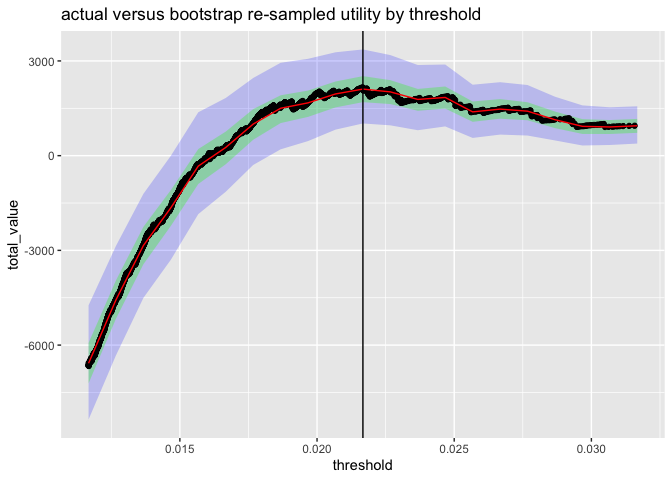
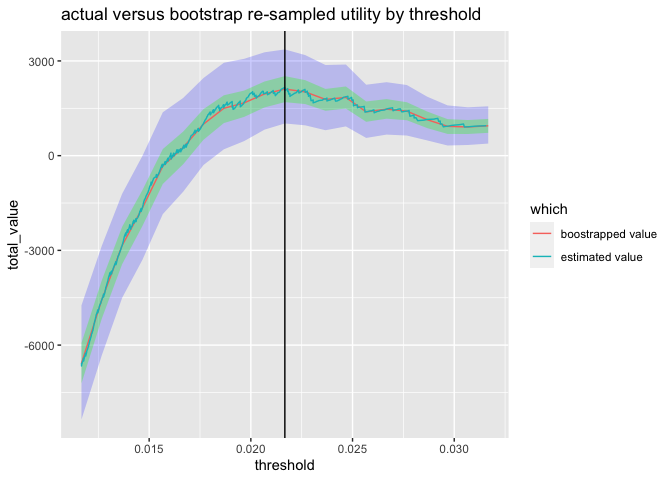
change to lines

diff --git a/extras/utility_modeling/Utility_Sampling_Distribution.md b/extras/utility_modeling/Utility_Sampling_Distribution.md
@@ -128,6 +128,17 @@ value_range <- values[
   (values$threshold >= min(threshold_list)) &
      (values$threshold <= max(threshold_list)), ]
 
+boot_thin <- boot_summary %.>%
+  select_columns(., qc(threshold, mean_total_value)) %.>%
+  rename_columns(., 'total_value' := 'mean_total_value') %.>%
+  extend(., which = 'boostrapped value')
+
+value_thin <- value_range %.>%
+  select_columns(., qc(threshold, total_value)) %.>%
+  extend(., which = 'estimated value')
+
+plot_thin <- rbind(boot_thin, value_thin)
+
 ggplot() +
   geom_ribbon(
     data = boot_summary,
@@ -139,17 +150,13 @@ ggplot() +
     mapping = aes(x = threshold, ymin = q_0.25, ymax = q_0.75),
     alpha = 0.3,
     fill = 'green') +
-  geom_point(
-    data = value_range,
-    mapping = aes(x = threshold, y = total_value)) + 
   geom_line(
-    data = boot_summary,
-    mapping = aes(x = threshold, y = mean_total_value),
-    color = 'red') + 
+    data = plot_thin,
+    mapping = aes(x = threshold, y = total_value, color = which)) + 
   geom_vline(xintercept = chosen_threshold) +
   ggtitle("actual versus bootstrap re-sampled utility by threshold")
 ```
 
-    ## Warning: Removed 1 rows containing missing values (geom_point).
+    ## Warning: Removed 1 row(s) containing missing values (geom_path).
 
 ![](Utility_Sampling_Distribution_files/figure-gfm/unnamed-chunk-1-1.png)<!-- -->
